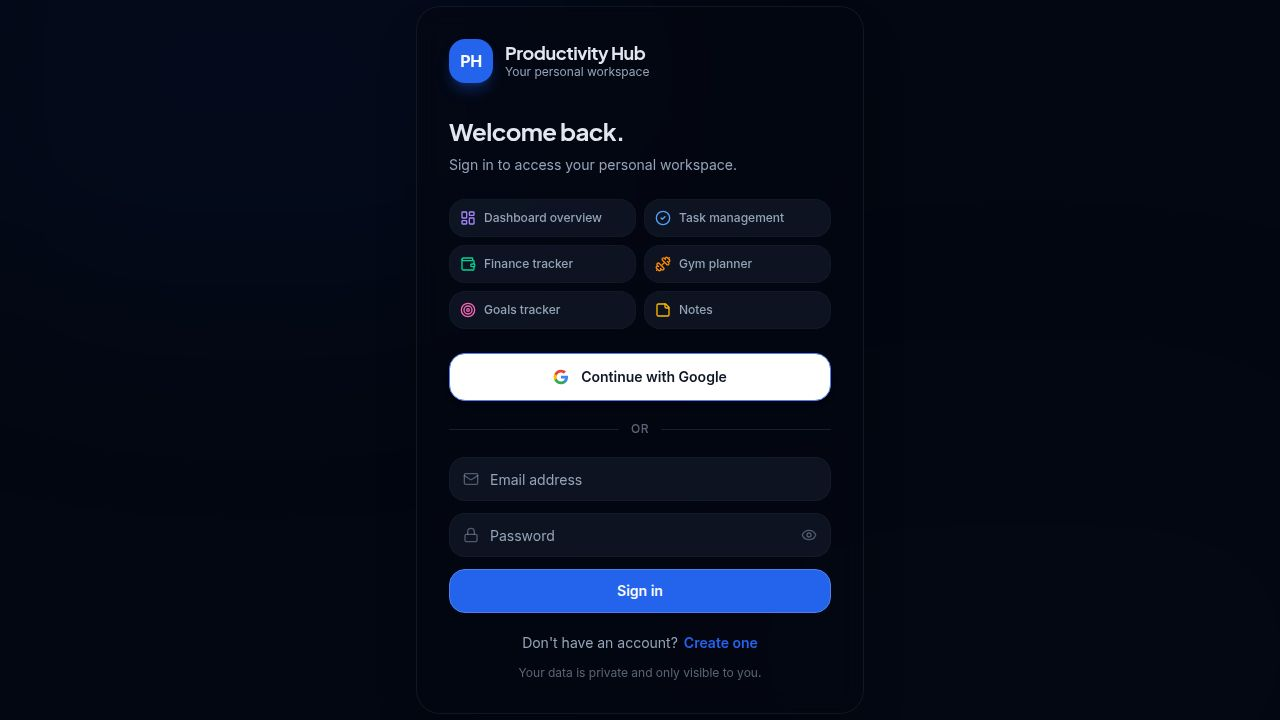
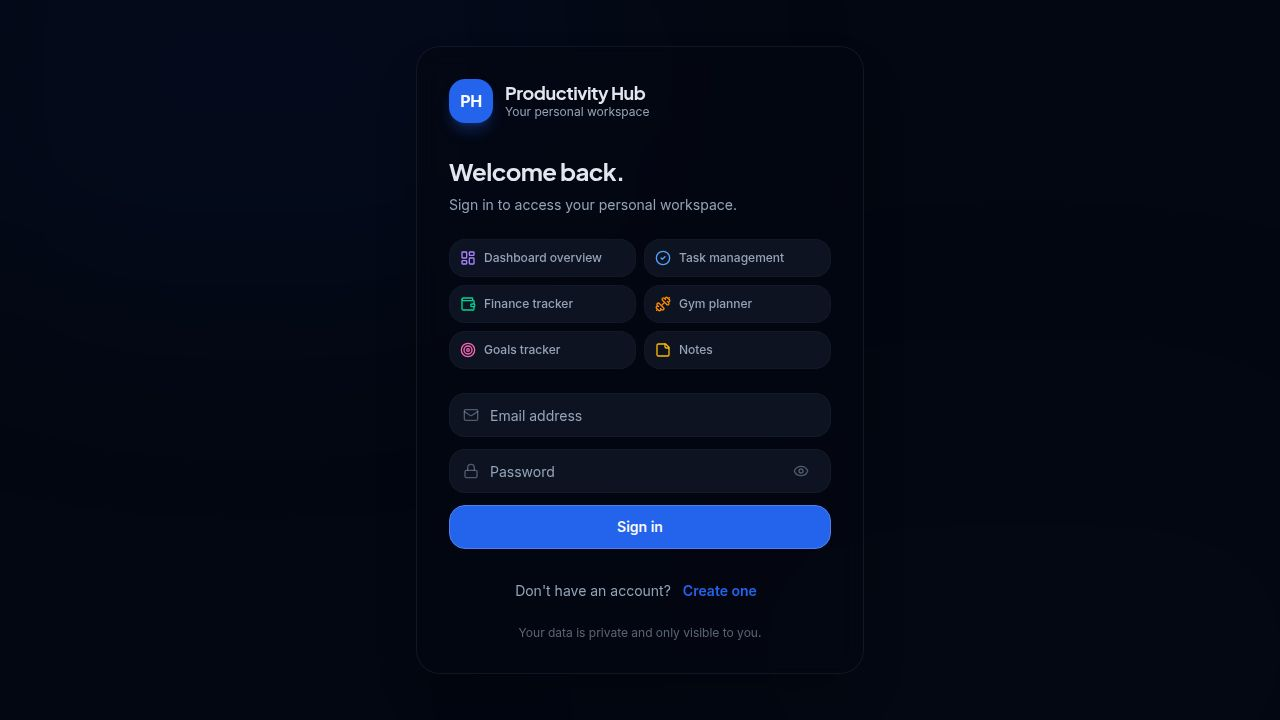
Improve usability and touch targets for mobile and web interfaces
Update UI components to increase touch target sizes on mobile devices and add visual indicators for clickable elements on the web, ensuring a better user experience across all platforms.

Replit-Commit-Author: Agent
Replit-Commit-Session-Id: 72a2225c-bf94-4075-8527-a7ecd1778096
Replit-Commit-Checkpoint-Type: full_checkpoint
Replit-Commit-Event-Id: a41bffc5-48f2-4388-9907-8189dc5f9d64
Replit-Commit-Screenshot-Url: https://storage.googleapis.com/screenshot-production-us-central1/b2cb50ed-cee9-4640-a8cd-e5f289007e85/72a2225c-bf94-4075-8527-a7ecd1778096/dWFFujO
Replit-Helium-Checkpoint-Created: true

Changed region(s): [[0.3438, 0.0306, 0.6562, 0.6111], [0.3438, 0.6417, 0.6562, 0.9472]]

diff --git a/artifacts/productivity-app/src/components/layout.tsx b/artifacts/productivity-app/src/components/layout.tsx
@@ -3,7 +3,7 @@ import { useLocation, Link } from "wouter";
 import { motion, AnimatePresence } from "framer-motion";
 import {
   LayoutGrid, X, LayoutDashboard, CheckCircle2, Wallet,
-  Dumbbell, Target, StickyNote, LogOut, ChevronUp,
+  Dumbbell, Target, StickyNote, LogOut, ChevronUp, ChevronRight,
 } from "lucide-react";
 import { useAuth } from "@/hooks/useAuth";
 
@@ -85,9 +85,10 @@ export function Layout({ children }: { children: ReactNode }) {
                     />
                   )}
                   <app.icon className={`w-5 h-5 shrink-0 ${isActive ? app.accent : "group-hover:text-foreground"}`} />
-                  <span className={`font-semibold text-sm ${isActive ? app.accent : ""}`}>
+                  <span className={`font-semibold text-sm flex-1 ${isActive ? app.accent : ""}`}>
                     {app.title}
                   </span>
+                  <ChevronRight className={`w-4 h-4 shrink-0 transition-all duration-200 ${isActive ? `${app.accent} opacity-80` : "text-muted-foreground/30 group-hover:text-muted-foreground/70 group-hover:translate-x-0.5"}`} />
                 </div>
               </Link>
             );
@@ -166,9 +167,9 @@ export function Layout({ children }: { children: ReactNode }) {
             <button
               onClick={() => setLauncherOpen(true)}
               aria-label="Open app launcher"
-              className="w-9 h-9 flex items-center justify-center rounded-xl bg-secondary/70 hover:bg-secondary border border-border/50 text-muted-foreground hover:text-foreground transition-all active:scale-95 lg:hidden"
+              className="min-w-[44px] min-h-[44px] flex items-center justify-center rounded-xl bg-secondary/70 hover:bg-secondary border border-border/50 text-muted-foreground hover:text-foreground transition-all active:scale-95 lg:hidden"
             >
-              <LayoutGrid className="w-4 h-4" />
+              <LayoutGrid className="w-5 h-5" />
             </button>
           </div>
         </header>
@@ -210,9 +211,9 @@ export function Layout({ children }: { children: ReactNode }) {
               </div>
               <button
                 onClick={() => setLauncherOpen(false)}
-                className="w-9 h-9 flex items-center justify-center rounded-xl bg-secondary/70 hover:bg-secondary border border-border/50 text-muted-foreground hover:text-foreground transition-all active:scale-95"
+                className="min-w-[44px] min-h-[44px] flex items-center justify-center rounded-xl bg-secondary/70 hover:bg-secondary border border-border/50 text-muted-foreground hover:text-foreground transition-all active:scale-95"
               >
-                <X className="w-4 h-4" />
+                <X className="w-5 h-5" />
               </button>
             </div>
 
@@ -264,9 +265,9 @@ export function Layout({ children }: { children: ReactNode }) {
               <div className="px-5 pb-6 border-t border-border/30 pt-4">
                 <button
                   onClick={() => { setLauncherOpen(false); logout(); }}
-                  className="w-full flex items-center justify-center gap-2 py-3 rounded-xl bg-secondary/60 hover:bg-red-500/10 border border-border/40 hover:border-red-500/20 text-sm text-muted-foreground hover:text-red-400 transition-all"
+                  className="w-full flex items-center justify-center gap-2 min-h-[52px] rounded-xl bg-secondary/60 hover:bg-red-500/10 border border-border/40 hover:border-red-500/20 text-sm text-muted-foreground hover:text-red-400 transition-all active:scale-[0.98]"
                 >
-                  <LogOut className="w-4 h-4" />
+                  <LogOut className="w-5 h-5" />
                   Sign out
                 </button>
               </div>

diff --git a/artifacts/productivity-app/src/pages/login.tsx b/artifacts/productivity-app/src/pages/login.tsx
@@ -198,7 +198,7 @@ export default function Login() {
                 <button
                   type="button"
                   onClick={() => setShowPassword(v => !v)}
-                  className="absolute right-3.5 top-1/2 -translate-y-1/2 text-muted-foreground/50 hover:text-muted-foreground transition-colors"
+                  className="absolute right-2 top-1/2 -translate-y-1/2 min-w-[44px] min-h-[44px] flex items-center justify-center text-muted-foreground/50 hover:text-muted-foreground transition-colors rounded-lg"
                 >
                   {showPassword ? <EyeOff className="w-4 h-4" /> : <Eye className="w-4 h-4" />}
                 </button>
@@ -218,15 +218,17 @@ export default function Login() {
             </Button>
           </form>
 
-          <p className="text-center text-sm text-muted-foreground mt-5">
-            {mode === "signin" ? "Don't have an account?" : "Already have an account?"}
+          <div className="flex items-center justify-center gap-1 mt-5">
+            <span className="text-sm text-muted-foreground">
+              {mode === "signin" ? "Don't have an account?" : "Already have an account?"}
+            </span>
             <button
               onClick={toggleMode}
-              className="ml-1.5 text-primary hover:text-primary/80 font-semibold transition-colors"
+              className="min-h-[44px] px-2 text-sm text-primary hover:text-primary/80 font-semibold transition-colors"
             >
               {mode === "signin" ? "Create one" : "Sign in"}
             </button>
-          </p>
+          </div>
 
           <p className="text-center text-xs text-muted-foreground/60 mt-3">
             Your data is private and only visible to you.
